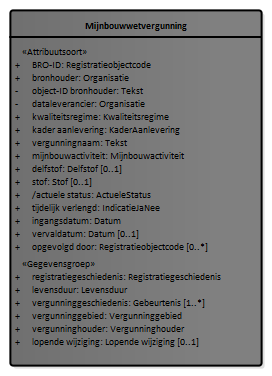
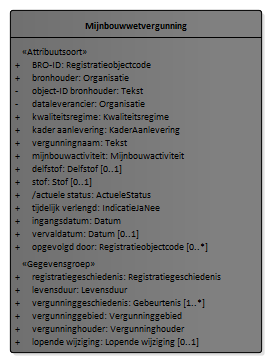
Conceptualmodel-EPLconceptueel-0.1-1-20201106-20210125-112240

Changed region(s): [[0.0294, 0.0, 0.9706, 1.0]]

diff --git a/data/EPL-cat.msword.html b/data/EPL-cat.msword.html
@@ -15,7 +15,7 @@
    <body>
       <p>Conceptual model/EPL conceptueel/20201106</p>
       <p>Imvertor: 1.63.0</p>
-      <p>Model release: Conceptualmodel-EPLconceptueel-0.1-1-20201106-20210125-101337</p>
+      <p>Model release: Conceptualmodel-EPLconceptueel-0.1-1-20201106-20210125-112240</p>
       <hr>
       <section>
          <h1>Artikel 1 Definitie van registratieobject, entiteiten en attributen</h1>
@@ -63,7 +63,7 @@
          <section>
             <h2>Het domeinmodel</h2>
             <section id="">
-               <div class="imageinfo overview"><img src="Images/EAID_A75AF5F5_F0DC_4d20_BF91_1F77F75E5563.png" usemap="#imagemap-EAID_A75AF5F5_F0DC_4d20_BF91_1F77F75E5563" alt="Diagram "><map name="imagemap-EAID_A75AF5F5_F0DC_4d20_BF91_1F77F75E5563"><area shape="rect" alt="Mijnbouwwetvergunning" coords="10,10,262,366" href="#graph_EAID_79464324_589F_4408_BD2E_501CBB622EC8"></map><p><b>Domeinmodel mijnbouwwetvergunning</b></p>
+               <div class="imageinfo overview"><img src="Images/EAID_A75AF5F5_F0DC_4d20_BF91_1F77F75E5563.png" usemap="#imagemap-EAID_A75AF5F5_F0DC_4d20_BF91_1F77F75E5563" alt="Diagram "><map name="imagemap-EAID_A75AF5F5_F0DC_4d20_BF91_1F77F75E5563"><area shape="rect" alt="Mijnbouwwetvergunning" coords="10,10,262,353" href="#graph_EAID_79464324_589F_4408_BD2E_501CBB622EC8"></map><p><b>Domeinmodel mijnbouwwetvergunning</b></p>
                </div>
             </section>
          </section>
@@ -1016,7 +1016,7 @@
                            </tr>
                         </tbody>
                      </table>
-                     </section><a class="anchor" id="detail_d35368e3288"></a><section id="detail_d35368e3288">
+                     </section><a class="anchor" id="detail_d35376e3290"></a><section id="detail_d35376e3290">
                      <h4>  registratiegeschiedenis</h4>
                      
                      
@@ -1063,7 +1063,7 @@
                            </tr>
                         </tbody>
                      </table>
-                     </section><a class="anchor" id="detail_d35368e3455"></a><section id="detail_d35368e3455">
+                     </section><a class="anchor" id="detail_d35376e3457"></a><section id="detail_d35376e3457">
                      <h4>  levensduur</h4>
                      
                      
@@ -1121,7 +1121,7 @@
                            </tr>
                         </tbody>
                      </table>
-                     </section><a class="anchor" id="detail_d35368e3671"></a><section id="detail_d35368e3671">
+                     </section><a class="anchor" id="detail_d35376e3673"></a><section id="detail_d35376e3673">
                      <h4>  vergunninggeschiedenis</h4>
                      
                      
@@ -1180,7 +1180,7 @@
                            </tr>
                         </tbody>
                      </table>
-                     </section><a class="anchor" id="detail_d35368e3879"></a><section id="detail_d35368e3879">
+                     </section><a class="anchor" id="detail_d35376e3881"></a><section id="detail_d35376e3881">
                      <h4>  vergunninggebied</h4>
                      
                      
@@ -1227,7 +1227,7 @@
                            </tr>
                         </tbody>
                      </table>
-                     </section><a class="anchor" id="detail_d35368e4046"></a><section id="detail_d35368e4046">
+                     </section><a class="anchor" id="detail_d35376e4048"></a><section id="detail_d35376e4048">
                      <h4>  vergunninghouder</h4>
                      
                      
@@ -1282,7 +1282,7 @@
                            </tr>
                         </tbody>
                      </table>
-                     </section><a class="anchor" id="detail_d35368e4260"></a><section id="detail_d35368e4260">
+                     </section><a class="anchor" id="detail_d35376e4262"></a><section id="detail_d35376e4262">
                      <h4>  lopende wijziging</h4>
                      
                      
@@ -2370,7 +2370,7 @@
                            </tr>
                         </tbody>
                      </table>
-                     </section><a class="anchor" id="detail_d35368e7998"></a><section id="detail_d35368e7998">
+                     </section><a class="anchor" id="detail_d35376e8003"></a><section id="detail_d35376e8003">
                      <h4>  verleend gebied</h4>
                      
                      
@@ -2706,7 +2706,7 @@
                            </tr>
                         </tbody>
                      </table>
-                     </section><a class="anchor" id="detail_d35368e9087"></a><section id="detail_d35368e9087">
+                     </section><a class="anchor" id="detail_d35376e9095"></a><section id="detail_d35376e9095">
                      <h4>  dieptebereik</h4>
                      
                      
@@ -2915,7 +2915,7 @@
                            </tr>
                         </tbody>
                      </table>
-                     </section><a class="anchor" id="detail_d35368e9838"></a><section id="detail_d35368e9838">
+                     </section><a class="anchor" id="detail_d35376e9847"></a><section id="detail_d35376e9847">
                      <h4>  geologische bovengrens</h4>
                      
                      
@@ -2975,7 +2975,7 @@
                            </tr>
                         </tbody>
                      </table>
-                     </section><a class="anchor" id="detail_d35368e10054"></a><section id="detail_d35368e10054">
+                     </section><a class="anchor" id="detail_d35376e10063"></a><section id="detail_d35376e10063">
                      <h4>  geologische ondergrens</h4>
                      
                      
@@ -3415,7 +3415,7 @@
                            </tr>
                         </tbody>
                      </table>
-                     </section><a class="anchor" id="detail_d35368e11540"></a><section id="detail_d35368e11540">
+                     </section><a class="anchor" id="detail_d35376e11551"></a><section id="detail_d35376e11551">
                      <h4>  te wijzigen gegevens</h4>
                      
                      
@@ -3791,7 +3791,7 @@
                            </tr>
                         </tbody>
                      </table>
-                     </section><a class="anchor" id="detail_d35368e12842"></a><section id="detail_d35368e12842">
+                     </section><a class="anchor" id="detail_d35376e12854"></a><section id="detail_d35376e12854">
                      <h4>  geologische bovengrens</h4>
                      
                      
@@ -3838,7 +3838,7 @@
                            </tr>
                         </tbody>
                      </table>
-                     </section><a class="anchor" id="detail_d35368e13009"></a><section id="detail_d35368e13009">
+                     </section><a class="anchor" id="detail_d35376e13021"></a><section id="detail_d35376e13021">
                      <h4>  geologische ondergrens</h4>
                      
                      

diff --git a/data/EPL-cat.respec.html b/data/EPL-cat.respec.html
@@ -41,7 +41,7 @@
       </section>
    <section id="">
       <h2>Het domeinmodel   </h2>
-      <div class="imageinfo overview"><img src="data/Images/EAID_A75AF5F5_F0DC_4d20_BF91_1F77F75E5563.png" usemap="#imagemap-EAID_A75AF5F5_F0DC_4d20_BF91_1F77F75E5563" alt="Diagram "><map name="imagemap-EAID_A75AF5F5_F0DC_4d20_BF91_1F77F75E5563"><area shape="rect" alt="Mijnbouwwetvergunning" coords="10,10,262,366" href="#graph_EAID_79464324_589F_4408_BD2E_501CBB622EC8"></map><p><b>Domeinmodel mijnbouwwetvergunning</b></p>
+      <div class="imageinfo overview"><img src="data/Images/EAID_A75AF5F5_F0DC_4d20_BF91_1F77F75E5563.png" usemap="#imagemap-EAID_A75AF5F5_F0DC_4d20_BF91_1F77F75E5563" alt="Diagram "><map name="imagemap-EAID_A75AF5F5_F0DC_4d20_BF91_1F77F75E5563"><area shape="rect" alt="Mijnbouwwetvergunning" coords="10,10,262,353" href="#graph_EAID_79464324_589F_4408_BD2E_501CBB622EC8"></map><p><b>Domeinmodel mijnbouwwetvergunning</b></p>
       </div>
    </section>
    <section id="">
@@ -992,7 +992,7 @@
                   </tr>
                </tbody>
             </table>
-            </section><a class="anchor" id="detail_d35368e3288"></a><section id="detail_d35368e3288">
+            </section><a class="anchor" id="detail_d35376e3290"></a><section id="detail_d35376e3290">
             <h4>  registratiegeschiedenis</h4>
             
             
@@ -1039,7 +1039,7 @@
                   </tr>
                </tbody>
             </table>
-            </section><a class="anchor" id="detail_d35368e3455"></a><section id="detail_d35368e3455">
+            </section><a class="anchor" id="detail_d35376e3457"></a><section id="detail_d35376e3457">
             <h4>  levensduur</h4>
             
             
@@ -1097,7 +1097,7 @@
                   </tr>
                </tbody>
             </table>
-            </section><a class="anchor" id="detail_d35368e3671"></a><section id="detail_d35368e3671">
+            </section><a class="anchor" id="detail_d35376e3673"></a><section id="detail_d35376e3673">
             <h4>  vergunninggeschiedenis</h4>
             
             
@@ -1156,7 +1156,7 @@
                   </tr>
                </tbody>
             </table>
-            </section><a class="anchor" id="detail_d35368e3879"></a><section id="detail_d35368e3879">
+            </section><a class="anchor" id="detail_d35376e3881"></a><section id="detail_d35376e3881">
             <h4>  vergunninggebied</h4>
             
             
@@ -1203,7 +1203,7 @@
                   </tr>
                </tbody>
             </table>
-            </section><a class="anchor" id="detail_d35368e4046"></a><section id="detail_d35368e4046">
+            </section><a class="anchor" id="detail_d35376e4048"></a><section id="detail_d35376e4048">
             <h4>  vergunninghouder</h4>
             
             
@@ -1258,7 +1258,7 @@
                   </tr>
                </tbody>
             </table>
-            </section><a class="anchor" id="detail_d35368e4260"></a><section id="detail_d35368e4260">
+            </section><a class="anchor" id="detail_d35376e4262"></a><section id="detail_d35376e4262">
             <h4>  lopende wijziging</h4>
             
             
@@ -2346,7 +2346,7 @@
                   </tr>
                </tbody>
             </table>
-            </section><a class="anchor" id="detail_d35368e7998"></a><section id="detail_d35368e7998">
+            </section><a class="anchor" id="detail_d35376e8003"></a><section id="detail_d35376e8003">
             <h4>  verleend gebied</h4>
             
             
@@ -2682,7 +2682,7 @@
                   </tr>
                </tbody>
             </table>
-            </section><a class="anchor" id="detail_d35368e9087"></a><section id="detail_d35368e9087">
+            </section><a class="anchor" id="detail_d35376e9095"></a><section id="detail_d35376e9095">
             <h4>  dieptebereik</h4>
             
             
@@ -2891,7 +2891,7 @@
                   </tr>
                </tbody>
             </table>
-            </section><a class="anchor" id="detail_d35368e9838"></a><section id="detail_d35368e9838">
+            </section><a class="anchor" id="detail_d35376e9847"></a><section id="detail_d35376e9847">
             <h4>  geologische bovengrens</h4>
             
             
@@ -2951,7 +2951,7 @@
                   </tr>
                </tbody>
             </table>
-            </section><a class="anchor" id="detail_d35368e10054"></a><section id="detail_d35368e10054">
+            </section><a class="anchor" id="detail_d35376e10063"></a><section id="detail_d35376e10063">
             <h4>  geologische ondergrens</h4>
             
             
@@ -3391,7 +3391,7 @@
                   </tr>
                </tbody>
             </table>
-            </section><a class="anchor" id="detail_d35368e11540"></a><section id="detail_d35368e11540">
+            </section><a class="anchor" id="detail_d35376e11551"></a><section id="detail_d35376e11551">
             <h4>  te wijzigen gegevens</h4>
             
             
@@ -3767,7 +3767,7 @@
                   </tr>
                </tbody>
             </table>
-            </section><a class="anchor" id="detail_d35368e12842"></a><section id="detail_d35368e12842">
+            </section><a class="anchor" id="detail_d35376e12854"></a><section id="detail_d35376e12854">
             <h4>  geologische bovengrens</h4>
             
             
@@ -3814,7 +3814,7 @@
                   </tr>
                </tbody>
             </table>
-            </section><a class="anchor" id="detail_d35368e13009"></a><section id="detail_d35368e13009">
+            </section><a class="anchor" id="detail_d35376e13021"></a><section id="detail_d35376e13021">
             <h4>  geologische ondergrens</h4>
             
             
